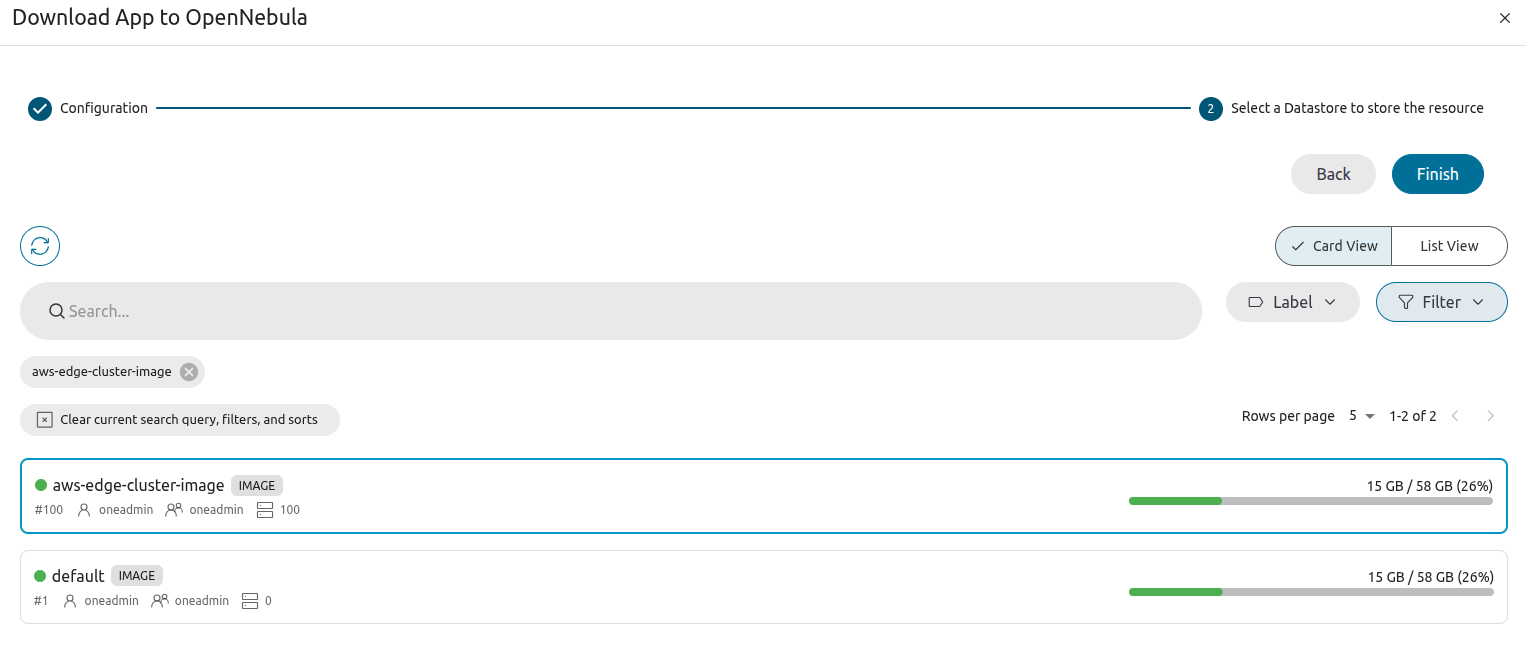
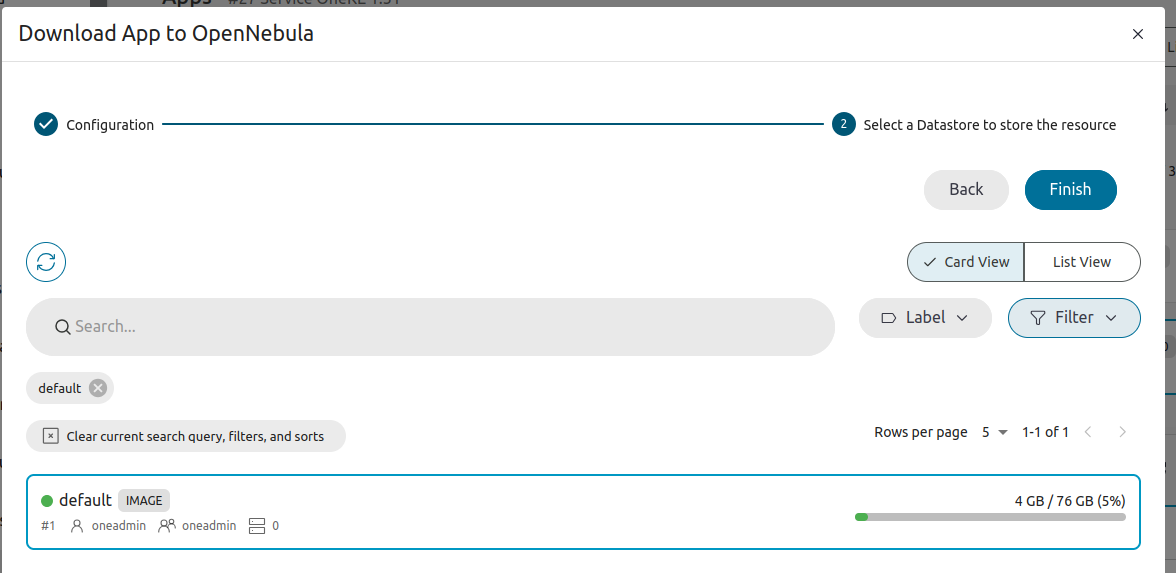
M #-: Update OneKE doc

diff --git a/content/quick_start/try_opennebula/try_kubernetes_on_opennebula/running_kubernetes_clusters.md b/content/quick_start/try_opennebula/try_kubernetes_on_opennebula/running_kubernetes_clusters.md
@@ -69,25 +69,6 @@ This tutorial includes a preliminary section to avoid known problems related to 
 
 In this tutorial we’ll perform a basic install of the Kubernetes cluster. The OneKE appliance offers options such as High Availability, Longhorn storage, load balancing and CNI plugins, which are out of the scope of this guide. For the full documentation of the OneKE appliance, please see the [OpenNebula Apps Documentation](https://github.com/OpenNebula/one-apps/wiki).
 
-## A Preliminary Step: Remove `REPLICA_HOST`
-
-It’s a known issue in AWS Edge Clusters that the `REPLICA_HOST` parameter in the template for the cluster’s datastore may cause QCOW2 image corruption, which causes VMs to boot incorrectly. To avoid the possibility of sporadic VM boot failures, remove the `REPLICA_HOST` parameter from the datastore template.
-
-Follow these steps:
-
-> 1. Log in to Sunstone as user `oneadmin`.
-> 2. Open the left-hand pane (by hovering your mouse over the icons on the left), then select **Storage** -> **Datastores**.
->    ![image](/images/sunstone-storage-datastores.png)
-> 3. Select the **system** datastore for the AWS cluster. (If you began this Quick Start Guide on a clean install, it will probably display ID `100`.)
->    ![image](/images/sunstone-aws_edge_cluster_sys_ds.png)
-> 4. Sunstone will display the **Info** panel for the datastore. Scroll down to the **Attributes** section and find the `REPLICA_HOST` attribute. Hover your mouse to the right, to display the **Copy**/**Edit**/**Delete** icons ![icon3](/images/icons/sunstone/parameter_manipulation_icons.png) for the attribute value:
->    ![image](/images/sunstone-aws_cluster_replica_host.png)
->    <br/>
-> 5. Click the **Delete** icon ![icon4](/images/icons/sunstone/trash.png).
-> 6. When Sunstone requests to confirm the action, click **Yes**.
-
-You have deleted the `REPLICA_HOST` parameter from the datastore. In the next step we’ll download the OneKE appliance.
-
 ## Step 1. Download the OneKE Service from the OpenNebula Marketplace
 
 The [OpenNebula Public Marketplace](https://marketplace.opennebula.io) is a repository of Virtual Machines and appliances which are curated, tested and certified by OpenNebula.
@@ -99,9 +80,9 @@ Open the left-hand pane, then select **Storage** -> **Apps**. Sunstone will disp
 ![image](/images/sunstone-apps_list.png)
 <br/>
 
-In the search field at the top, type `oneke` to filter by name. Then, select **Service OneKE <version number>** with the highest version number, in this case **Service OneKE 1.29** highlighted below.
+In the search field at the top, type `oneke` to filter by name. Then, select **Service OneKE <version number>** with the highest version number, in this case **Service OneKE 1.31** highlighted below.
 
-![image](/images/sunstone-service_oneke_1.29.png)
+![image](/images/sunstone-service_oneke.png)
 <br/>
 
 Click the **Import** button.
@@ -110,59 +91,59 @@ As with the WordPress appliance, Sunstone displays the **Download App to OpenNeb
 
 ![image](/images/sunstone-aws_cluster_download_oneke.png)
 
-In the second screen you will need to select a datastore for the appliance. Select the **aws-edge-cluster-image** datastore.
+In the second screen you will need to select a datastore for the appliance. Select the **default** datastore.
 
 ![kubernetes-qs-marketplace-datastore](/images/aws_cluster_images_datastore.png)
 
-Click **Finish**. Sunstone will display the appliance template and download the appliance in the background. Wait for the appliance **State** to switch from **LOCKED** to **READY**. The appliance comprises a 25GB download, so this may take several minutes.
+Click **Finish**. Sunstone will import the appliance template and display a message at bottom right. To see the imported template, in the left-hand menu select **Templates** -> **Service Templates**:
+
+![image](/images/sunstone-service_templates.png)
 
 ## Step 2. Instantiate a Private Network on the Cloud Cluster
 
-In this step we will instantiate the private network on the Cloud Cluster, it and assign a range of IPs to it.
+In this step we will create a new virtual network and assign a range of private IPs to. This will network will be used by the OneKE service for internal communication.
 
-In Sunstone, open the left-hand pane, then select **Network** -> **Network Templates**.
+In Sunstone, open the left-hand pane, then select **Network** -> **Network Templates**. Sunstone displays the **Virtual networks** page showing the network automatically created by miniONE:
 
-Select the **aws-edge-cluster-private** Virtual Network template, then click the **Instantiate** ![icon2](/images/icons/sunstone/instantiate.png) icon at the top.
+![image](/images/sunstone-virtual_networks.png)
 
-![image](/images/sunstone-aws_cluster_private_net_template.png)
-<br/>
+Click the **Create** button at the top. Sunstone will display the **Create Virtual Network** screen. Enter a name for the network -- for this example we will use `privnet`. Then, click **Next**.
 
-Sunstone displays the **Instantiate Network Template** wizard. In the first screen, choose a name for the network, e.g. `aws-private`.
+In the next screen, activate the **Use only private host networking** switch:
 
-![kubernetes-aws-private-network](/images/kubernetes_aws_private_network.png)
+![image](/images/sunstone-create_priv_network.png)
 
-Click **Next**. In the next screen, click the **Address Range** box to select an IP address range for the network.
+Then, click the **Addresses** tab. Here we will enter a range of private IP addresses. For this example, enter `192.168.200.2` for the base network address, and set the network size to `100`.
 
-![image](/images/sunstone-aws_cluster_private_net_template-add_addr.png)
-<br/>
-
-Sunstone displays the **Address Range** dialog box. Here you can define an address range by selecting the first address and the size of the address range. Select a range of private IPv4 addresses, for example `172.20.0.1`. In this example we’ll set a size of `100`.
-
-![kubernetes-aws-private-network-range](/images/kubernetes_aws_private_network_address_range.png)
-
-Click **Accept**.
-
-Lastly, you will need to add a DNS server for the network. Select the **Context** tab, then the **DNS** input field. Type the address for the DNS server, such as `8.8.8.8` or `1.1.1.1`.
-
-![kubernetes-aws-dns](/images/kubernetes_aws_dns.png)
+![image](/images/sunstone-create_priv_network_2.png)
 
 Click **Finish**.
-
-At this point, you have instantiated a private network for the Edge Cluster where Kubernetes will be deployed, and are ready to instantiate the Kubernetes Service.
 
 ## Step 3. Instantiate the Kubernetes Service
 
 In the left-hand pane, select **Templates** -> **Service Templates**.
 
-Select **Service OneKE 1.29**, then click the **Instantiate** icon ![icon2](/images/icons/sunstone/instantiate.png).
+Select **Service OneKE 1.31**, then click the **Instantiate** icon ![icon2](/images/icons/sunstone/instantiate.png).
 
-Sunstone displays the **Instantiate Service Template** wizard. In the first screen you can give your service a name and specify the number of instances to instantiate. In this example we’ll use `OneKE 1.29` and start a single instance.
+Sunstone displays the **Instantiate Service Template** wizard. In the first screen you can give your service a name and specify the number of instances to instantiate. In this example we’ll leave the default name `Service OneKE 1.31` and start a single instance.
 
-![kubernetes-qs-service-start](/images/kubernetes_service_start-1.29.png)
+![kubernetes-qs-service-start](/images/sunstone-oneke_instantiate-1.png)
 
-Click **Next** to go to the next screen, **User Inputs**.
+Click **Next** to go to the next screen, **Networks**.
 
-Here you can define parameters for the cluster, including a custom domain, plugins, VNF routers, storage options and others grouped in the following tabs:
+Here we will select the private and the public network for the OneKE service.
+
+To select the public network, click the **Public** tab on the left, then select network **vnet**. For the private network, click the **Private** tab, then select **privnet**.
+
+![image](/images/sunstone-oneke_instantiate-2.png)
+
+Click **Next**. Sunstone displays the **Service Inputs** screen:
+
+![image](/images/sunstone-instantiate_oneke-sevice_inputs.png)
+
+Here you can define parameters for the cluster, including a custom domain, plugins, VNF routers, storage options and others.
+
+<!--
 
 ![image](/images/sunstone-kubernetes-user_inputs_vrouter.png)
 
@@ -175,57 +156,17 @@ Here you can define parameters for the cluster, including a custom domain, plugi
 ![image](/images/sunstone-kubernetes-user_inputs_others.png)
 <br/>
 
-### Optional: Add a Custom Domain
+-->
 
-To enable access with the `kubectl` command from outside the cluster, you can add a custom domain for the Kubernetes SANs. Enter your custom domain in the **ApiServer extra certificate SANs** field, as shown below.
+For this tutorial we'll apply the following configuration:
 
-![kubernetes-qs-add-sans](/images/kubernetes-qs-add-sans.png)
+In the **Kubernetes Cluster** tab, scroll down and activate **Enable Longhorn**. Then scroll down to the bottom of the page and **Enable Traefik**.
 
-You can use a public DNS server or add the custom domain to your local `/etc/hosts` file, for example:
+Click **Next**.
 
-```bash
-127.0.0.1 localhost
-1.2.3.4 k8s.yourdomain.it
-```
+In the last screen, click **Finish**.
 
-{{< alert title="Important" color="success" >}}
-When using a custom SAN, to access the cluster using a kubeconfig file you will need to modify the variable `clusters[0].cluster.server` in the file to include the name of the cluster, e.g. `server: https://k8s.yourdomain.it:6443`. The path of the kubeconfig file is set in the `KUBECONFIG` variable in the Kubernetes master node.
-
-To define the variable in the kubeconfig file, follow these high-level steps:
-
-1. Log in to the Kubernetes master node (see [Step 4]({{% relref "#step-4" %}}) below).
-2. Find the kubeconfig file by checking the value of the `KUBECONFIG` variable, e.g. by running `echo $KUBECONFIG`.
-3. Edit the file and modify the value of `clusters[0].cluster.server` with your domain name, e.g. `server: https://k8s.yourdomain.it:6443`.{{< /alert >}} 
-
-### Enable **Traefik/HaProxy**
-
-To expose an example application on the public network, you will need to enable OneKE’s Traefik solution for ingress traffic. In **User Inputs**, go to Page 2, then click the **Enable Traefik** switch.
-
-![kubernetes-qs-enable-ingress](/images/kubernetes-qs-enable-ingress.png)
-
-Click **Next** to go to the next screen, **Network**.
-
-### Select the Public and Private Networks
-
-The Kubernetes cluster needs access to the private and the public network defined for the Edge Cluster. First we’ll select the public network.
-
-Set the **Network ID** drop-down menu to `Public`, and the **Network Type** drop-down menu to `Existing`.
-
-<!-- image::/images/sunstone_kubernetes_netw_dropdowns.png -->
-
-Check that the **Network ID** drop-down menu displays `Public`, then select the **metal-aws-edge-cluster-public** network.
-
-![kubernetes-qs-pick-networks-public](/images/kubernetes-qs-pick-networks-public-1.29.png)
-
-To select the private network, change the **Network ID** drop-down to `Private`, then select **aws-private**.
-
-![kubernetes-qs-pick-networks-private](/images/kubernetes-qs-pick-networks-private-1.29.png)
-
-Once the public and private networks for the cluster are specified, the Kubernetes service template is ready to be instantiated. Click **Next** to go to the final screen of the wizard.
-
-In the final screen, click **Finish**.
-
-The OpenNebula Front-end will deploy the Kubernetes service to the Edge Cluster. Wait for the cluster **State** to switch to **READY**.
++++
 
 ### Verify the Cluster Deployment
 

diff --git a/content/quick_start/try_opennebula/opennebula_on-prem_with_minione/deploy_opennebula_on_aws.md b/content/quick_start/try_opennebula/opennebula_on-prem_with_minione/deploy_opennebula_on_aws.md
@@ -241,6 +241,33 @@ Use following to login:
   password: lCmPUb5Gwk
 ```
 
+Once installation is finished, ensure that the local KVM Host is in sync, by following these steps:
+
+Switch to the `oneadmin` user:
+
+```bash
+su - oneadmin
+```
+
+Sync the KVM Host with:
+
+```bash
+onehost rync --force
+```
+
+Verify that the host is in sync:
+
+```bash
+onehost list
+```
+
+In the output, the `STAT` column on the right should display `on`:
+
+```default
+  ID NAME                                                            CLUSTER    TVM      ALLOCATED_CPU      ALLOCATED_MEM STAT
+   0 localhost                                                       default      0      0 / 9600 (0%)   0K / 188.5G (0%) on
+```
+
 At this point, you have successfully installed miniONE. OpenNebula services should be running, and the system should be ready for your first login.
 
 {{< alert title="Important" color="success" >}}

diff --git a/content/quick_start/try_opennebula/opennebula_on-prem_with_minione/validate_the_minione_environment.md b/content/quick_start/try_opennebula/opennebula_on-prem_with_minione/validate_the_minione_environment.md
@@ -104,7 +104,7 @@ To access the Marketplace, first log in to Sunstone on your OpenNebula Front-end
 
 Open the left-hand pane (by hovering the mouse over the icons on the left), then select **Storage**, then **Apps**:
 
-![image](/images/sunstone-select_apps.png)
+![><](/images/sunstone-select_apps.png)
 <br/>
 
 Sunstone will display the **Apps** screen, showing the first page of apps that are available for download:
